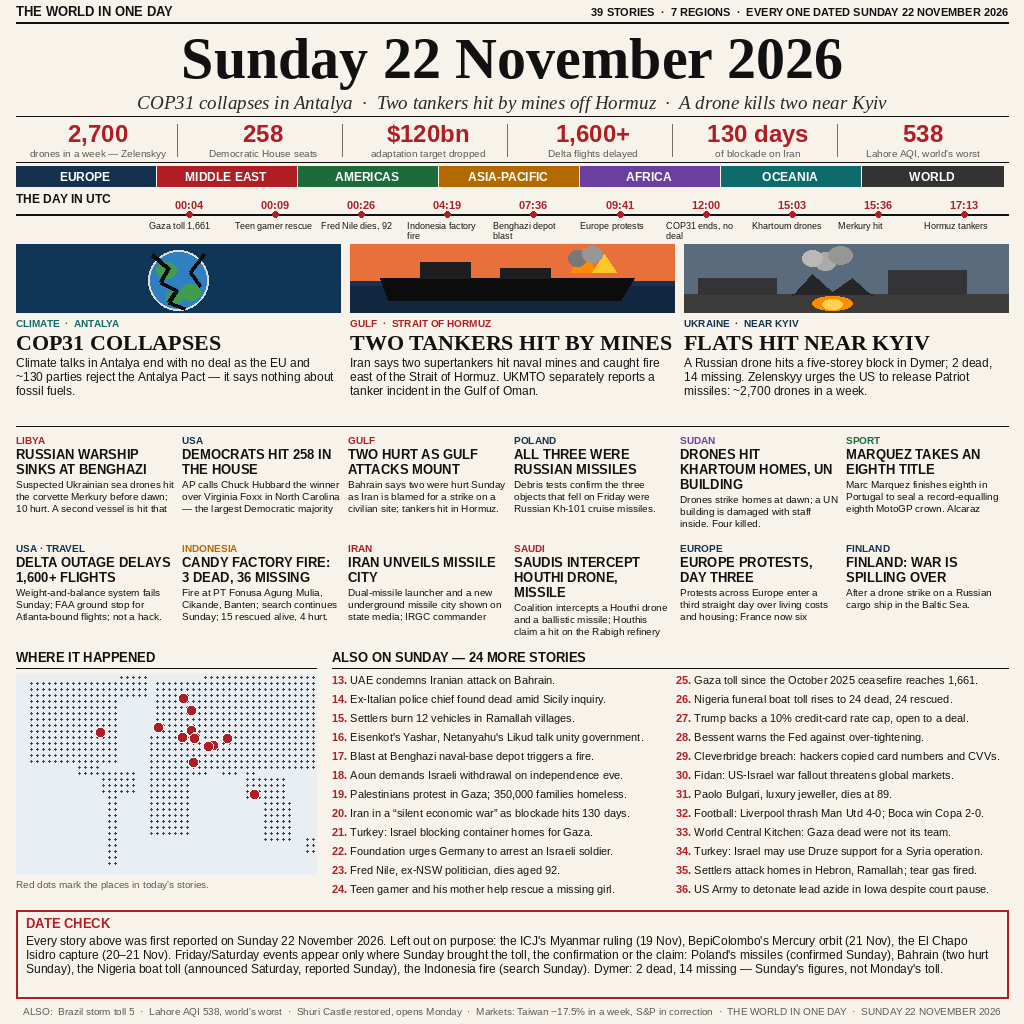
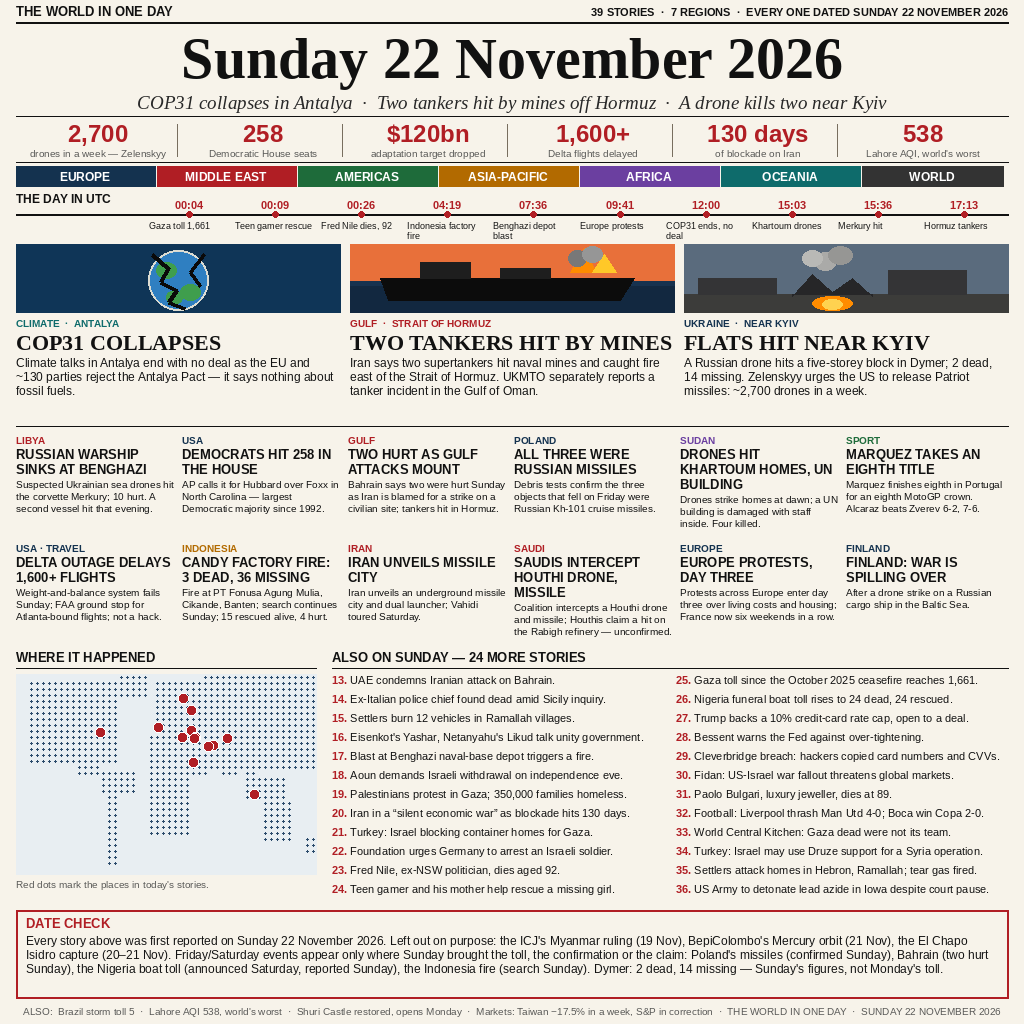
news-image-20261122 r2 fix: shorten 6 grid decks to end on complete sentences
LIBYA, USA, SPORT, EUROPE, IRAN decks truncated mid-sentence in
render; SAUDI lost its trailing '— unconfirmed' qualifier. Shortened
each deck to fit <=3 lines ending on a full stop. No other text changed.

diff --git a/draw.py b/draw.py
@@ -121,9 +121,9 @@ BIG = [
 
 GRID = [
     ("LIBYA", RED, "RUSSIAN WARSHIP SINKS AT BENGHAZI",
-     "Suspected Ukrainian sea drones hit the corvette Merkury before dawn; 10 hurt. A second vessel is hit that evening."),
+     "Suspected Ukrainian sea drones hit the corvette Merkury; 10 hurt. A second vessel hit that evening."),
     ("USA", NAVY, "DEMOCRATS HIT 258 IN THE HOUSE",
-     "AP calls Chuck Hubbard the winner over Virginia Foxx in North Carolina — the largest Democratic majority since 1992."),
+     "AP calls it for Hubbard over Foxx in North Carolina — largest Democratic majority since 1992."),
     ("GULF", RED, "TWO HURT AS GULF ATTACKS MOUNT",
      "Bahrain says two were hurt Sunday as Iran is blamed for a strike on a civilian site; tankers hit in Hormuz."),
     ("POLAND", NAVY, "ALL THREE WERE RUSSIAN MISSILES",
@@ -131,17 +131,17 @@ GRID = [
     ("SUDAN", PURPLE, "DRONES HIT KHARTOUM HOMES, UN BUILDING",
      "Drones strike homes at dawn; a UN building is damaged with staff inside. Four killed."),
     ("SPORT", GREEN, "MARQUEZ TAKES AN EIGHTH TITLE",
-     "Marc Marquez finishes eighth in Portugal to seal a record-equalling eighth MotoGP crown. Alcaraz beats Zverev 6-2, 7-6."),
+     "Marquez finishes eighth in Portugal for an eighth MotoGP crown. Alcaraz beats Zverev 6-2, 7-6."),
     ("USA · TRAVEL", NAVY, "DELTA OUTAGE DELAYS 1,600+ FLIGHTS",
      "Weight-and-balance system fails Sunday; FAA ground stop for Atlanta-bound flights; not a hack."),
     ("INDONESIA", GOLD, "CANDY FACTORY FIRE: 3 DEAD, 36 MISSING",
      "Fire at PT Fonusa Agung Mulia, Cikande, Banten; search continues Sunday; 15 rescued alive, 4 hurt."),
     ("IRAN", RED, "IRAN UNVEILS MISSILE CITY",
-     "Dual-missile launcher and a new underground missile city shown on state media; IRGC commander Vahidi toured Saturday."),
+     "Iran unveils an underground missile city and dual launcher; Vahidi toured Saturday."),
     ("SAUDI", RED, "SAUDIS INTERCEPT HOUTHI DRONE, MISSILE",
-     "Coalition intercepts a Houthi drone and a ballistic missile; Houthis claim a hit on the Rabigh refinery — unconfirmed."),
+     "Coalition intercepts a Houthi drone and missile; Houthis claim a hit on the Rabigh refinery — unconfirmed."),
     ("EUROPE", NAVY, "EUROPE PROTESTS, DAY THREE",
-     "Protests across Europe enter a third straight day over living costs and housing; France now six weekends in a row."),
+     "Protests across Europe enter day three over living costs and housing; France now six weekends in a row."),
     ("FINLAND", NAVY, "FINLAND: WAR IS SPILLING OVER",
      "After a drone strike on a Russian cargo ship in the Baltic Sea."),
 ]
